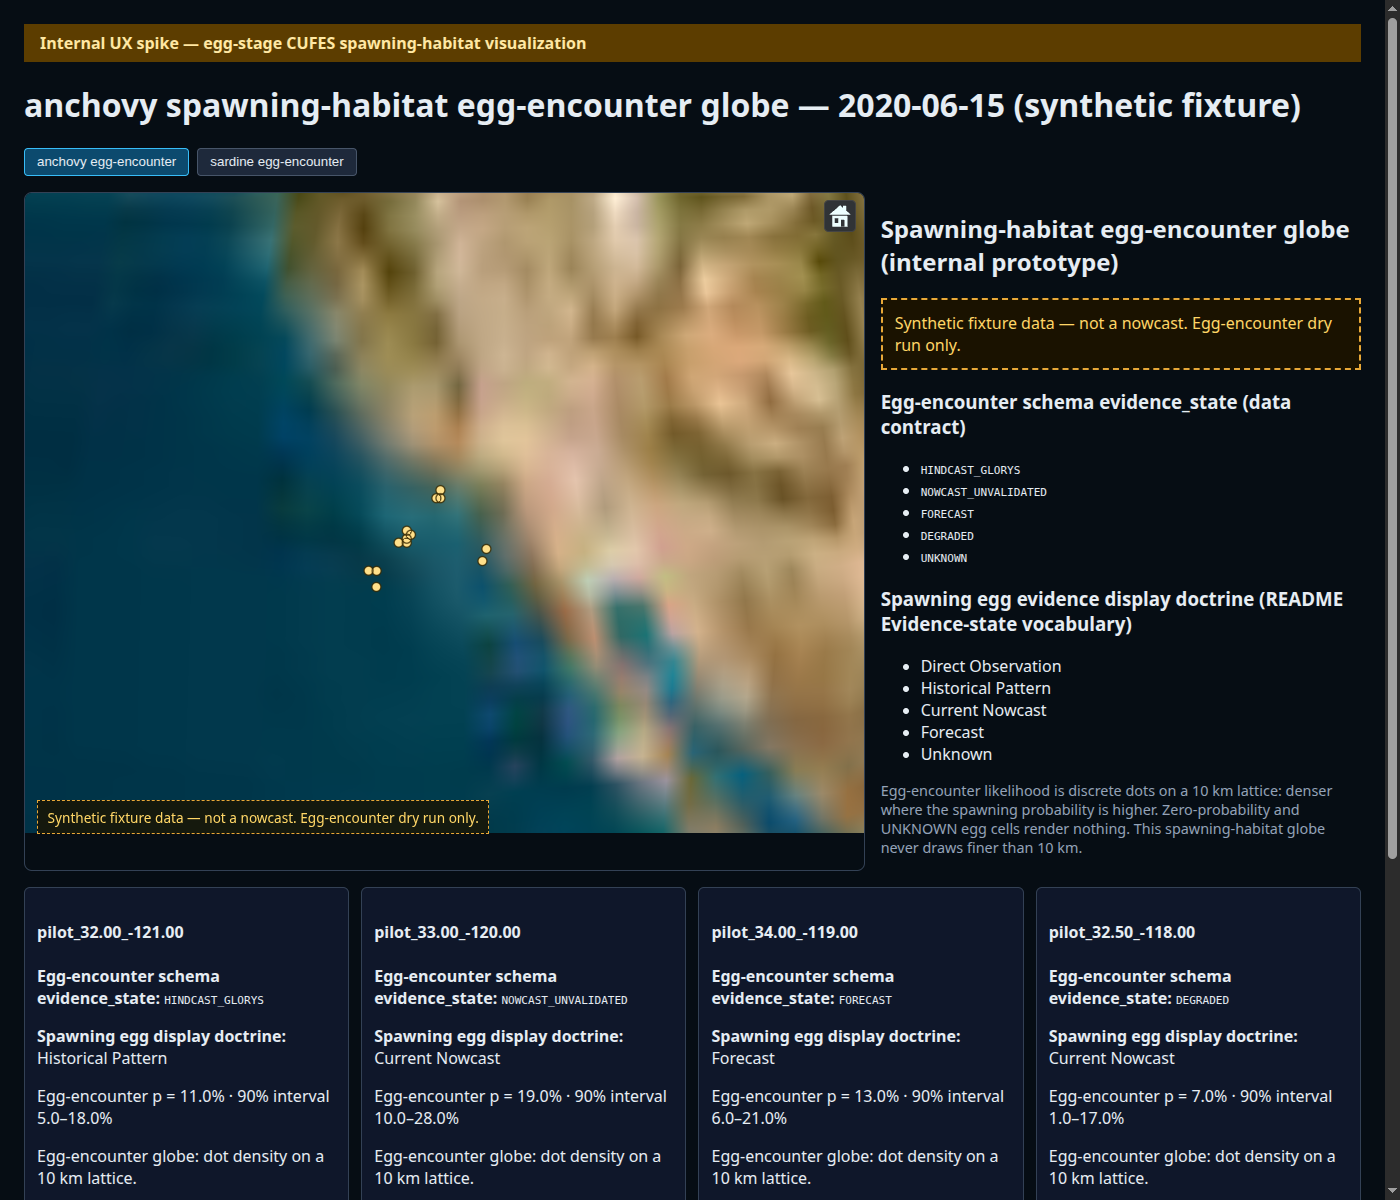
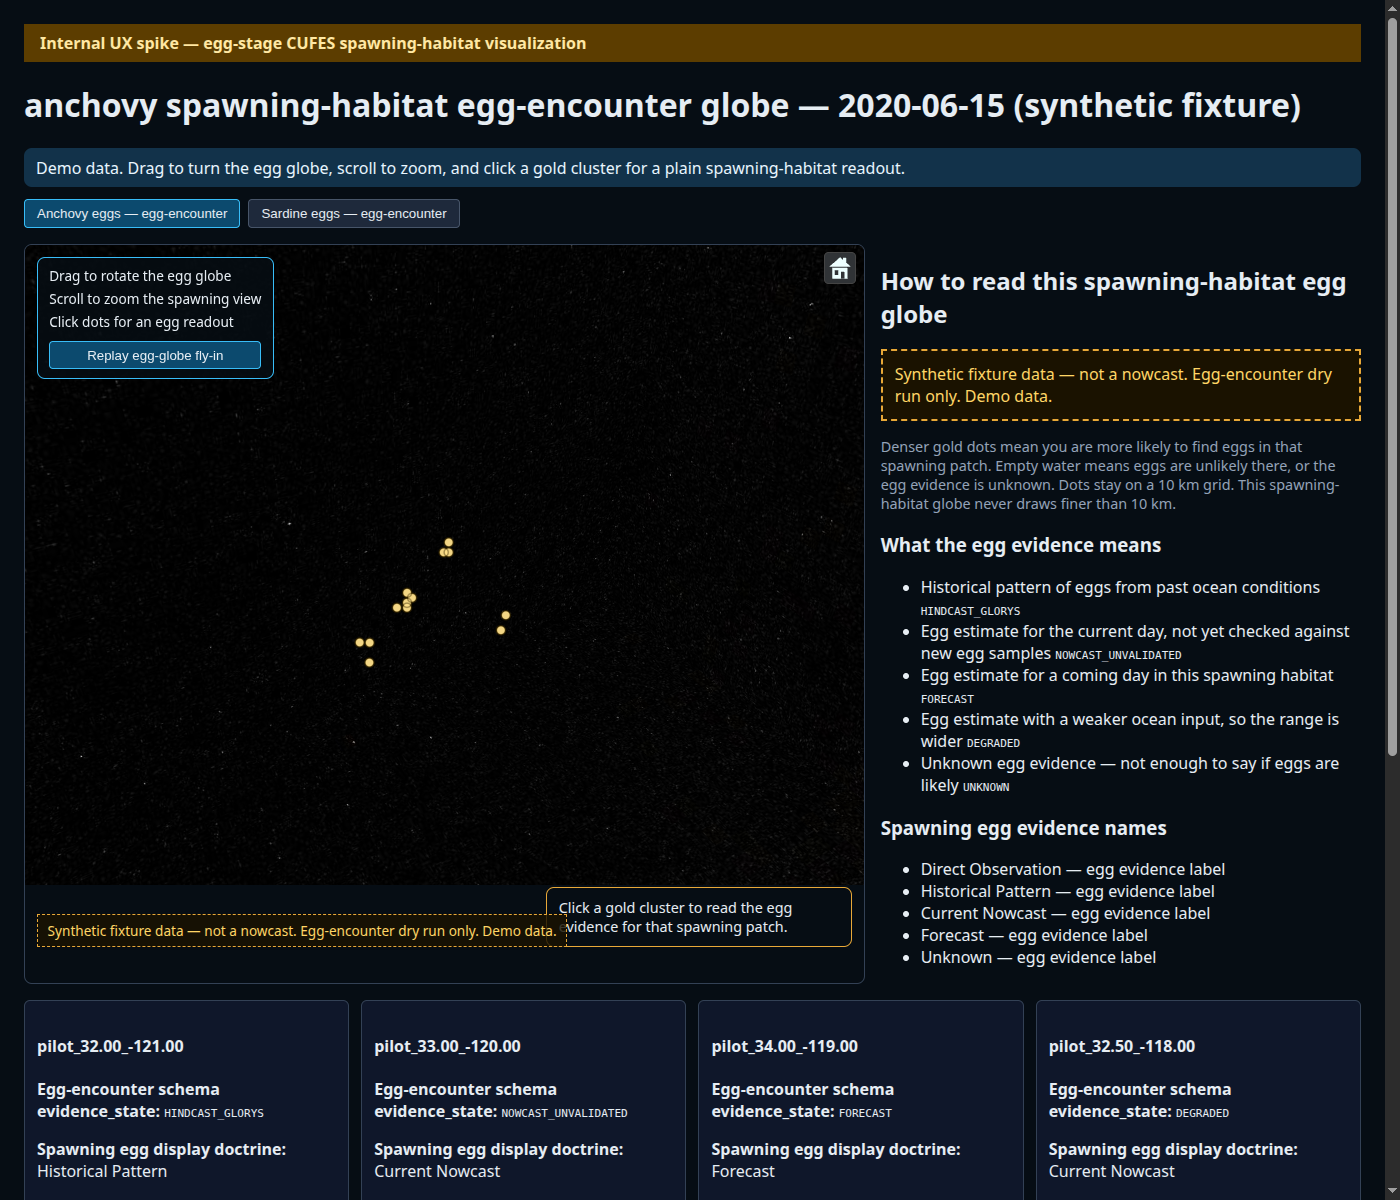
Make the egg globe readable on first open and fly in from space.
Plain-language egg evidence, hover and click readouts, and a replayable camera sweep sit on the same synthetic fixture. Dots fade in after the flight and stay on the 10 km lattice.

diff --git a/prototype/prediction-map/app.js b/prototype/prediction-map/app.js
@@ -4,6 +4,7 @@ import {
   displayDoctrineForSchema,
   effectiveEvidenceState,
   isUnknownRow,
+  plainEvidence,
 } from "./evidence_display.js";
 
 const DOMAIN = {
@@ -18,6 +19,7 @@ const FLOOR_KM = 10;
 const MAX_DOTS = 25;
 
 const Cesium = window.Cesium;
+let dotAlpha = 0;
 
 function parseCellId(cellId) {
   const m = /^pilot_([0-9.]+)_(-[0-9.]+)$/.exec(cellId);
@@ -95,19 +97,30 @@ function dotsToKeep(cameraHeight) {
   return MAX_DOTS;
 }
 
+const SPECIES_EGG_NAME = {
+  sardine: "Sardine eggs",
+  anchovy: "Anchovy eggs",
+};
+
 function renderLegend(container) {
+  const plainStates = SCHEMA_EVIDENCE_STATES.map(
+    (s) => "<li>" + plainEvidence(s) + " <code>" + s + "</code></li>",
+  ).join("");
+  const doctrineItems = DISPLAY_DOCTRINE.map(
+    (d) => "<li>" + d + " — egg evidence label</li>",
+  ).join("");
   container.innerHTML = `
-    <h2>Spawning-habitat egg-encounter globe (internal prototype)</h2>
+    <h2>How to read this spawning-habitat egg globe</h2>
     <p class="watermark" data-testid="watermark"></p>
-    <section aria-label="Egg-encounter schema evidence_state enum">
-      <h3>Egg-encounter schema evidence_state (data contract)</h3>
-      <ul>${SCHEMA_EVIDENCE_STATES.map((s) => `<li><code>${s}</code></li>`).join("")}</ul>
+    <p class="hint">Denser gold dots mean you are more likely to find eggs in that spawning patch. Empty water means eggs are unlikely there, or the egg evidence is unknown. Dots stay on a 10 km grid. This spawning-habitat globe never draws finer than 10 km.</p>
+    <section aria-label="Egg-encounter evidence in plain words">
+      <h3>What the egg evidence means</h3>
+      <ul>${plainStates}</ul>
     </section>
     <section aria-label="Spawning-habitat egg display doctrine vocabulary">
-      <h3>Spawning egg evidence display doctrine (README Evidence-state vocabulary)</h3>
-      <ul>${DISPLAY_DOCTRINE.map((d) => `<li>${d}</li>`).join("")}</ul>
+      <h3>Spawning egg evidence names</h3>
+      <ul>${doctrineItems}</ul>
     </section>
-    <p class="hint">Egg-encounter likelihood is discrete dots on a 10 km lattice: denser where the spawning probability is higher. Zero-probability and UNKNOWN egg cells render nothing. This spawning-habitat globe never draws finer than 10 km.</p>
   `;
 }
 
@@ -115,7 +128,7 @@ function renderSpeciesToggle(container, speciesList, active, onChange) {
   container.innerHTML = speciesList
     .map(
       (sp) =>
-        `<button type="button" class="species-btn ${sp === active ? "active" : ""}" data-species="${sp}">${sp} egg-encounter</button>`,
+        `<button type="button" class="species-btn ${sp === active ? "active" : ""}" data-species="${sp}">${SPECIES_EGG_NAME[sp] || sp} — egg-encounter</button>`,
     )
     .join("");
   container.querySelectorAll(".species-btn").forEach((btn) => {
@@ -144,6 +157,7 @@ function renderCellList(container, rows, species) {
         <h4>${row.cell_id}</h4>
         <p><strong>Egg-encounter schema evidence_state:</strong> <code>${state}</code></p>
         <p><strong>Spawning egg display doctrine:</strong> ${doctrine}</p>
+        <p>${plainEvidence(state)}</p>
         <p>${prob}</p>
         ${dotLine}
         ${unknownLine}
@@ -206,14 +220,69 @@ function paintDots(viewer, collection, rows, species, meta) {
       const primitive = collection.add({
         position: Cesium.Cartesian3.fromDegrees(dot.lon, dot.lat, 0),
         pixelSize: 7,
-        color: Cesium.Color.fromCssColorString("#ffe08a"),
+        color: Cesium.Color.fromCssColorString("#ffe08a").withAlpha(dotAlpha),
         outlineColor: Cesium.Color.fromCssColorString("#3a2a00"),
         outlineWidth: 1,
         disableDepthTestDistance: Number.POSITIVE_INFINITY,
       });
       primitive._eggRank = dot.rank;
+      primitive._eggCellId = row.cell_id;
     });
   });
+}
+
+function setDotAlpha(collection, alpha) {
+  dotAlpha = alpha;
+  for (let i = 0; i < collection.length; i += 1) {
+    const dot = collection.get(i);
+    const color = dot.color;
+    dot.color = new Cesium.Color(color.red, color.green, color.blue, alpha);
+  }
+}
+
+function fadeEggDots(collection, viewer) {
+  const start = performance.now();
+  const step = (now) => {
+    const alpha = Math.min(1, (now - start) / 1400);
+    setDotAlpha(collection, alpha);
+    viewer.scene.requestRender();
+    if (alpha < 1) requestAnimationFrame(step);
+  };
+  requestAnimationFrame(step);
+}
+
+function playEggFlyIn(viewer, collection) {
+  setDotAlpha(collection, 0);
+  viewer.camera.setView({
+    destination: Cesium.Cartesian3.fromDegrees(-125, 8, 20_000_000),
+  });
+  viewer.camera.flyTo({
+    destination: Cesium.Cartesian3.fromDegrees(-119.2, 33.6, 1_450_000),
+    duration: new URLSearchParams(location.search).get("shot") === "1" ? 0.3 : 6.2,
+    easingFunction: Cesium.EasingFunction.CUBIC_IN_OUT,
+    complete: () => fadeEggDots(collection, viewer),
+    cancel: () => fadeEggDots(collection, viewer),
+  });
+}
+
+function eggReadoutText(row) {
+  const state = effectiveEvidenceState(row);
+  const name = SPECIES_EGG_NAME[row.species] || row.species;
+  if (isUnknownRow(row) || row.p_encounter == null || row.p_encounter <= 0) {
+    return (
+      name +
+      ": no egg dots in this spawning patch. Empty means eggs are unlikely, or the egg evidence is unknown. " +
+      plainEvidence(state)
+    );
+  }
+  const pct = (row.p_encounter * 100).toFixed(0);
+  return (
+    name +
+    ": about " +
+    pct +
+    "% chance of finding eggs in this 10 km spawning patch. Denser dots mean eggs are more likely. " +
+    plainEvidence(state)
+  );
 }
 
 function applyDotLod(viewer, collection) {
@@ -240,7 +309,9 @@ async function main() {
   const wm = legend.querySelector(".watermark");
   if (wm) wm.textContent = meta.watermark;
   const globeWm = document.querySelector("[data-testid=globe-watermark]");
-  if (globeWm) globeWm.textContent = meta.watermark;
+  const demoMark = meta.watermark + " Demo data.";
+  if (globeWm) globeWm.textContent = demoMark;
+  if (wm) wm.textContent = demoMark;
 
   const speciesSet = [...new Set(rows.map((r) => r.species))].sort();
   let activeSpecies = speciesSet[0] ?? "sardine";
@@ -269,11 +340,36 @@ async function main() {
   refresh();
 
   viewer.camera.moveEnd.addEventListener(() => applyDotLod(viewer, dots));
-  viewer.camera.flyTo({
-    destination: Cesium.Cartesian3.fromDegrees(-119, 33.5, 1_800_000),
-    duration: 0,
-  });
-  applyDotLod(viewer, dots);
+
+  const readout = document.getElementById("egg-readout");
+  const showReadout = (row) => {
+    if (!readout) return;
+    readout.textContent = row
+      ? eggReadoutText(row)
+      : "No egg dots here. Empty water means eggs are unlikely, or the egg evidence is unknown.";
+  };
+  const rowAt = (windowPosition) => {
+    const picked = viewer.scene.pick(windowPosition);
+    const cellId = picked && picked.primitive && picked.primitive._eggCellId;
+    if (!cellId) return null;
+    return rows.find((r) => r.species === activeSpecies && r.cell_id === cellId) || null;
+  };
+  const handler = new Cesium.ScreenSpaceEventHandler(viewer.scene.canvas);
+  handler.setInputAction((movement) => {
+    showReadout(rowAt(movement.endPosition));
+  }, Cesium.ScreenSpaceEventType.MOUSE_MOVE);
+  handler.setInputAction((click) => {
+    const row = rowAt(click.position);
+    showReadout(row);
+    if (row) {
+      const card = list.querySelector(`[data-cell-id="${row.cell_id}"]`);
+      if (card) card.scrollIntoView({ behavior: "smooth", block: "nearest" });
+    }
+  }, Cesium.ScreenSpaceEventType.LEFT_CLICK);
+
+  const replay = document.getElementById("replay-flyin");
+  if (replay) replay.addEventListener("click", () => playEggFlyIn(viewer, dots));
+  playEggFlyIn(viewer, dots);
   document.body.dataset.eggGlobe = "ready";
 }
 

diff --git a/prototype/prediction-map/index.html b/prototype/prediction-map/index.html
@@ -20,6 +20,9 @@
     <header>
       <p class="banner">Internal UX spike — egg-stage CUFES spawning-habitat visualization</p>
       <h1 id="map-title">Spawning-habitat egg-encounter globe</h1>
+      <p id="egg-onboarding" class="onboarding">
+        Demo data. Drag to turn the egg globe, scroll to zoom, and click a gold cluster for a plain spawning-habitat readout.
+      </p>
       <div id="species-toggle" aria-label="Species egg-encounter layer"></div>
     </header>
     <main class="layout">
@@ -28,6 +31,15 @@
           id="globe"
           aria-label="Pilot domain egg-encounter globe 32–35°N 121–117°W"
         ></div>
+        <div class="egg-controls" aria-label="Egg globe controls">
+          <p>Drag to rotate the egg globe</p>
+          <p>Scroll to zoom the spawning view</p>
+          <p>Click dots for an egg readout</p>
+          <button id="replay-flyin" type="button">Replay egg-globe fly-in</button>
+        </div>
+        <aside id="egg-readout" class="egg-readout" aria-live="polite">
+          Click a gold cluster to read the egg evidence for that spawning patch.
+        </aside>
         <p class="globe-watermark" data-testid="globe-watermark"></p>
       </div>
       <aside id="legend"></aside>

diff --git a/prototype/prediction-map/styles.css b/prototype/prediction-map/styles.css
@@ -44,6 +44,59 @@ header {
   height: 640px;
 }
 
+.onboarding {
+  margin: 0.35rem 0 0.75rem;
+  padding: 0.55rem 0.75rem;
+  border-radius: 8px;
+  background: #12324a;
+  color: #e8f6ff;
+}
+
+.egg-controls {
+  position: absolute;
+  top: 12px;
+  left: 12px;
+  z-index: 2;
+  display: flex;
+  flex-direction: column;
+  gap: 0.25rem;
+  max-width: 240px;
+  padding: 0.55rem 0.7rem;
+  border-radius: 8px;
+  background: rgba(6, 13, 20, 0.82);
+  border: 1px solid #38bdf8;
+}
+
+.egg-controls p {
+  margin: 0;
+  font-size: 0.85rem;
+}
+
+.egg-controls button,
+#replay-flyin {
+  margin-top: 0.35rem;
+  cursor: pointer;
+  border-radius: 4px;
+  border: 1px solid #38bdf8;
+  background: #0c4a6e;
+  color: inherit;
+  padding: 0.35rem 0.5rem;
+}
+
+.egg-readout {
+  position: absolute;
+  right: 12px;
+  bottom: 36px;
+  z-index: 2;
+  max-width: 280px;
+  margin: 0;
+  padding: 0.65rem 0.75rem;
+  border-radius: 8px;
+  background: rgba(6, 13, 20, 0.88);
+  border: 1px solid #e8a838;
+  font-size: 0.9rem;
+}
+
 .globe-watermark {
   position: absolute;
   left: 12px;

diff --git a/prototype/prediction-map/evidence_display.js b/prototype/prediction-map/evidence_display.js
@@ -29,6 +29,19 @@ export function displayDoctrineForSchema(schemaEnum) {
   return SCHEMA_TO_DISPLAY[schemaEnum] ?? "Unknown";
 }
 
+/** Plain words for each schema evidence state. Every line names eggs. */
+export const PLAIN_EVIDENCE = {
+  HINDCAST_GLORYS: "Historical pattern of eggs from past ocean conditions",
+  NOWCAST_UNVALIDATED: "Egg estimate for the current day, not yet checked against new egg samples",
+  FORECAST: "Egg estimate for a coming day in this spawning habitat",
+  DEGRADED: "Egg estimate with a weaker ocean input, so the range is wider",
+  UNKNOWN: "Unknown egg evidence — not enough to say if eggs are likely",
+};
+
+export function plainEvidence(schemaEnum) {
+  return PLAIN_EVIDENCE[schemaEnum] ?? PLAIN_EVIDENCE.UNKNOWN;
+}
+
 /** Contract: ood_level >= 2 is out of domain and must render as UNKNOWN. */
 export function isUnknownRow(row) {
   return row.evidence_state === "UNKNOWN" || Number(row.ood_level) >= 2;

diff --git a/prototype/prediction-map/README.md b/prototype/prediction-map/README.md
@@ -11,7 +11,7 @@ cd prototype/prediction-map
 python -m http.server 8765
 ```
 
-Open `http://127.0.0.1:8765/` in a browser. CesiumJS loads from the Cesium CDN (satellite imagery from Esri World Imagery). No install step. Drag to rotate the egg-encounter globe; scroll to zoom. Toggle sardine or anchovy egg-encounter.
+Open `http://127.0.0.1:8765/` in a browser. CesiumJS loads from the Cesium CDN (satellite imagery from Esri World Imagery). No install step. On open, the egg globe flies in from space and the dots fade in. Drag to rotate, scroll to zoom, click a gold cluster for a plain egg readout, and use the sardine or anchovy egg toggle. Replay the fly-in from the button on the globe.
 
 Likelihood is a **dot-density** layer on a **10 km** lattice: more dots where egg-encounter probability is higher. Zero probability and out-of-domain egg conditions (`ood_level` ≥ 2, **UNKNOWN**) render **no dots**. Distant camera heights keep fewer dots so the spawning-habitat globe stays smooth. Fixture cells are about **50 km** apart.
 
